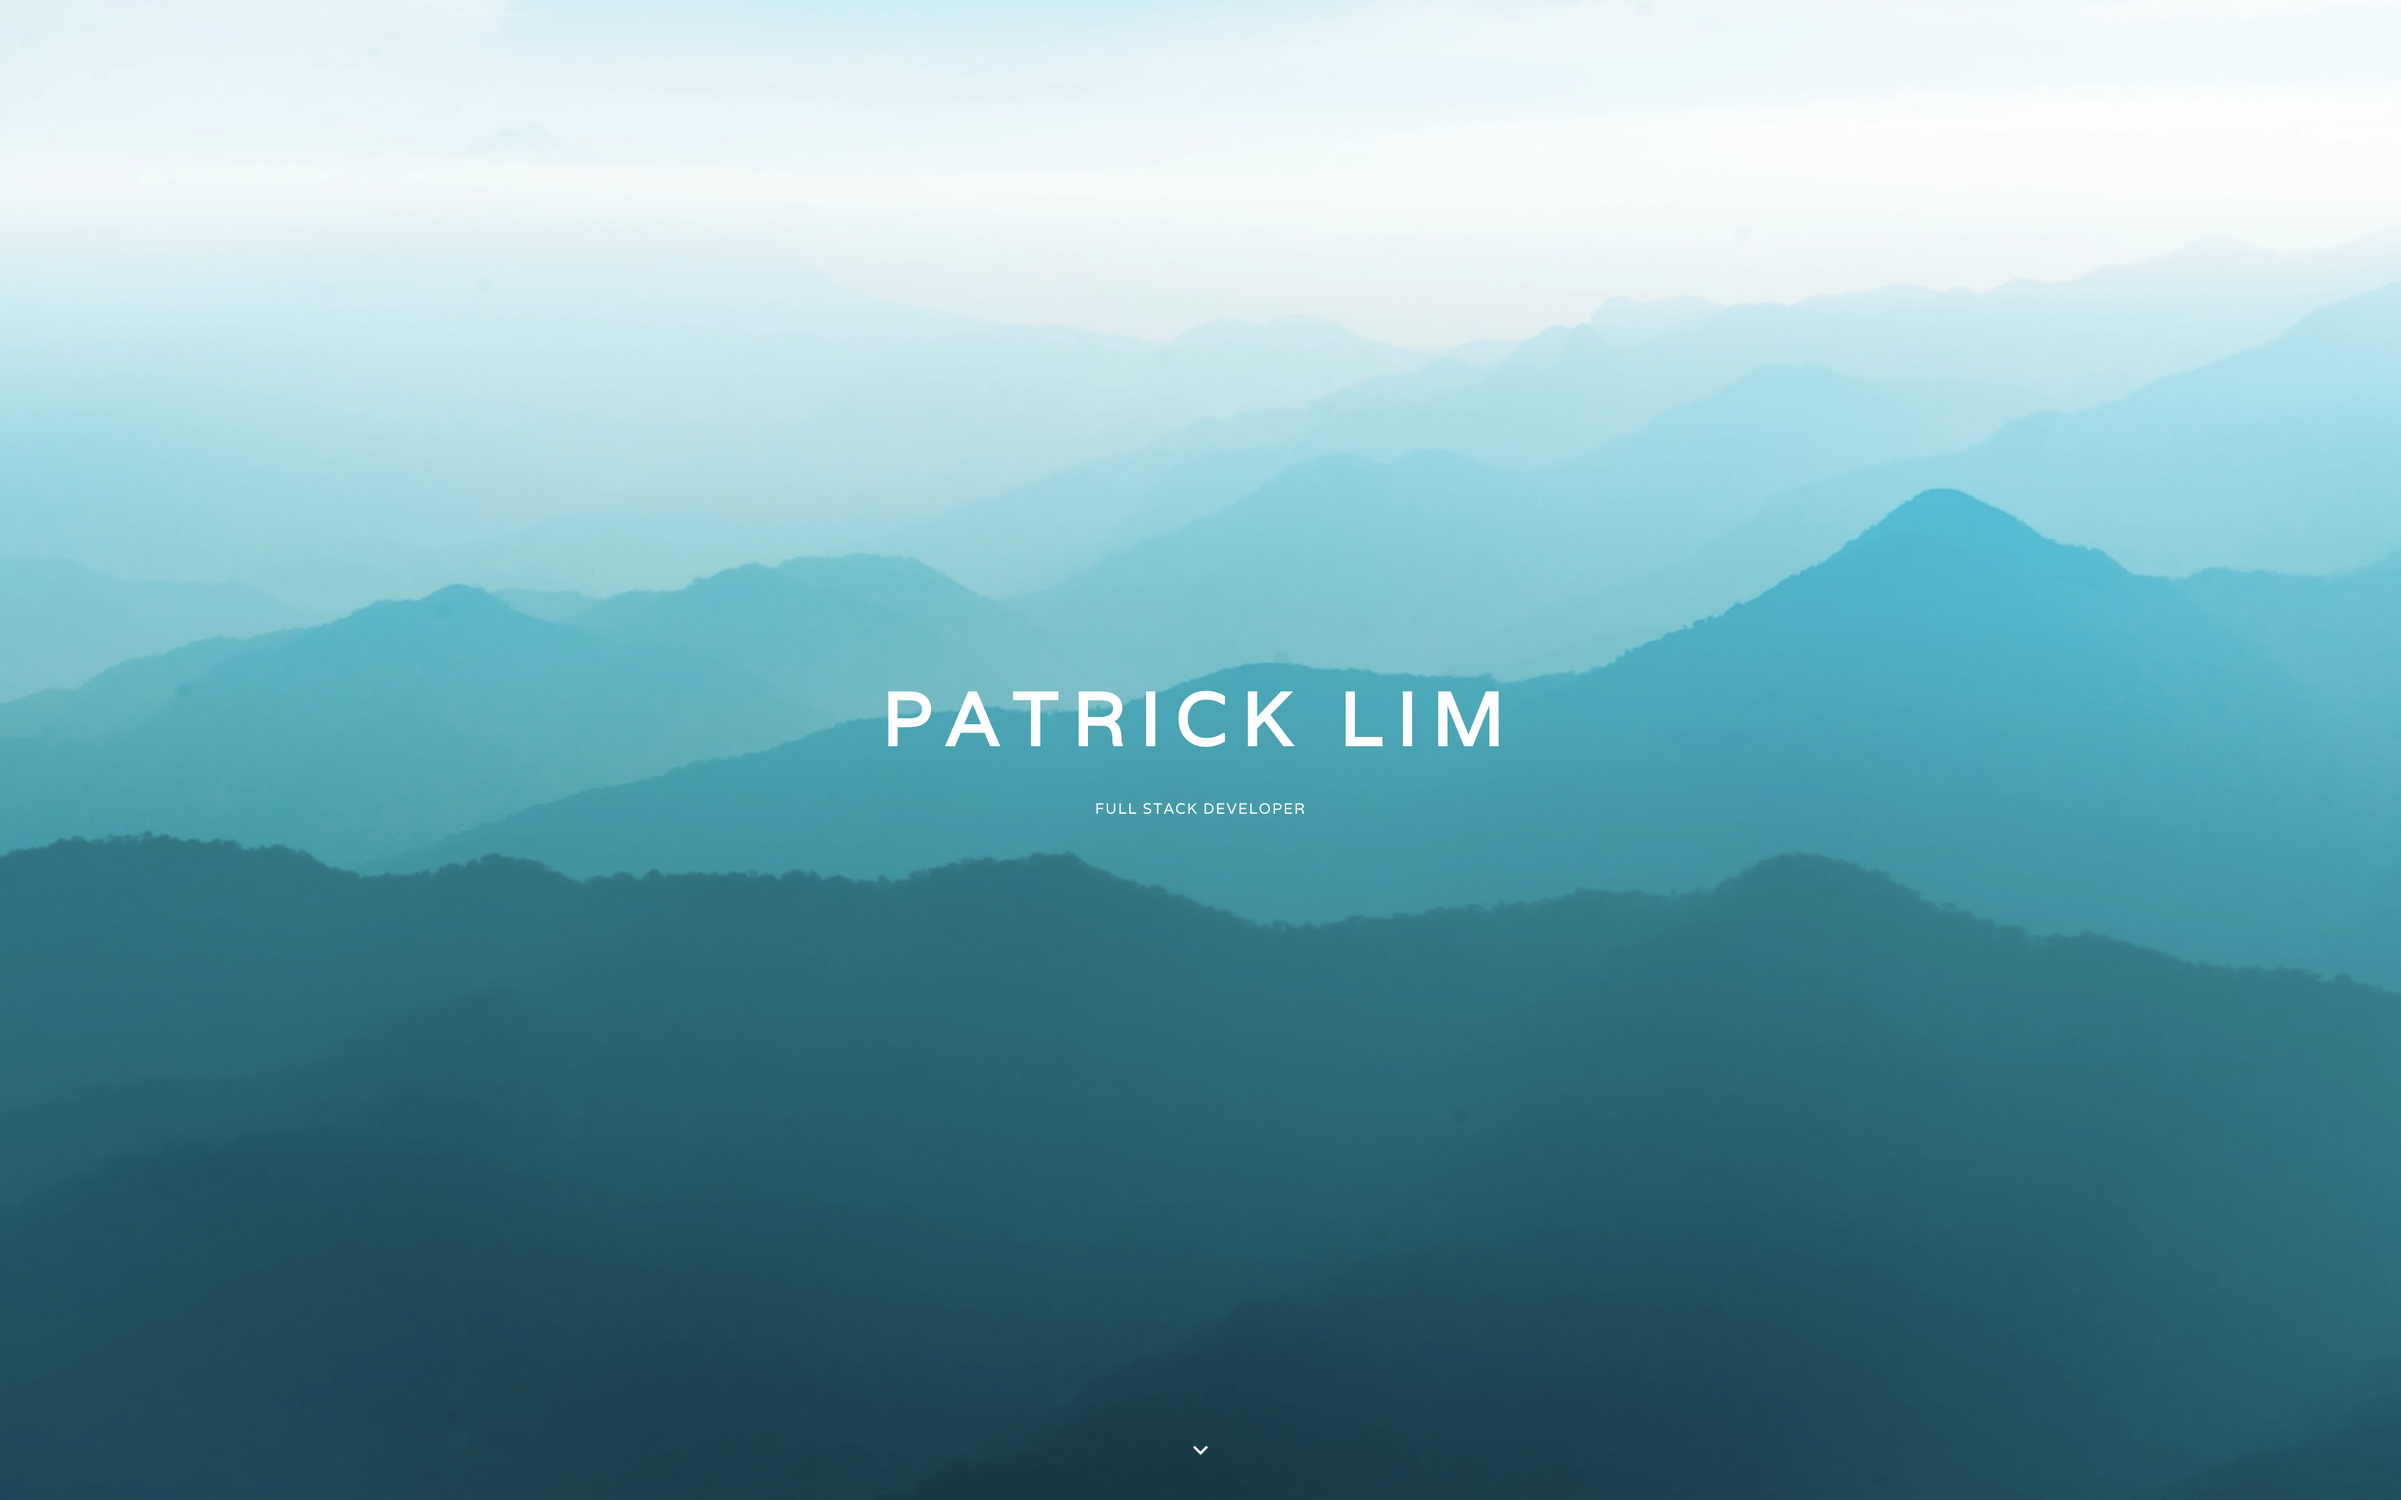
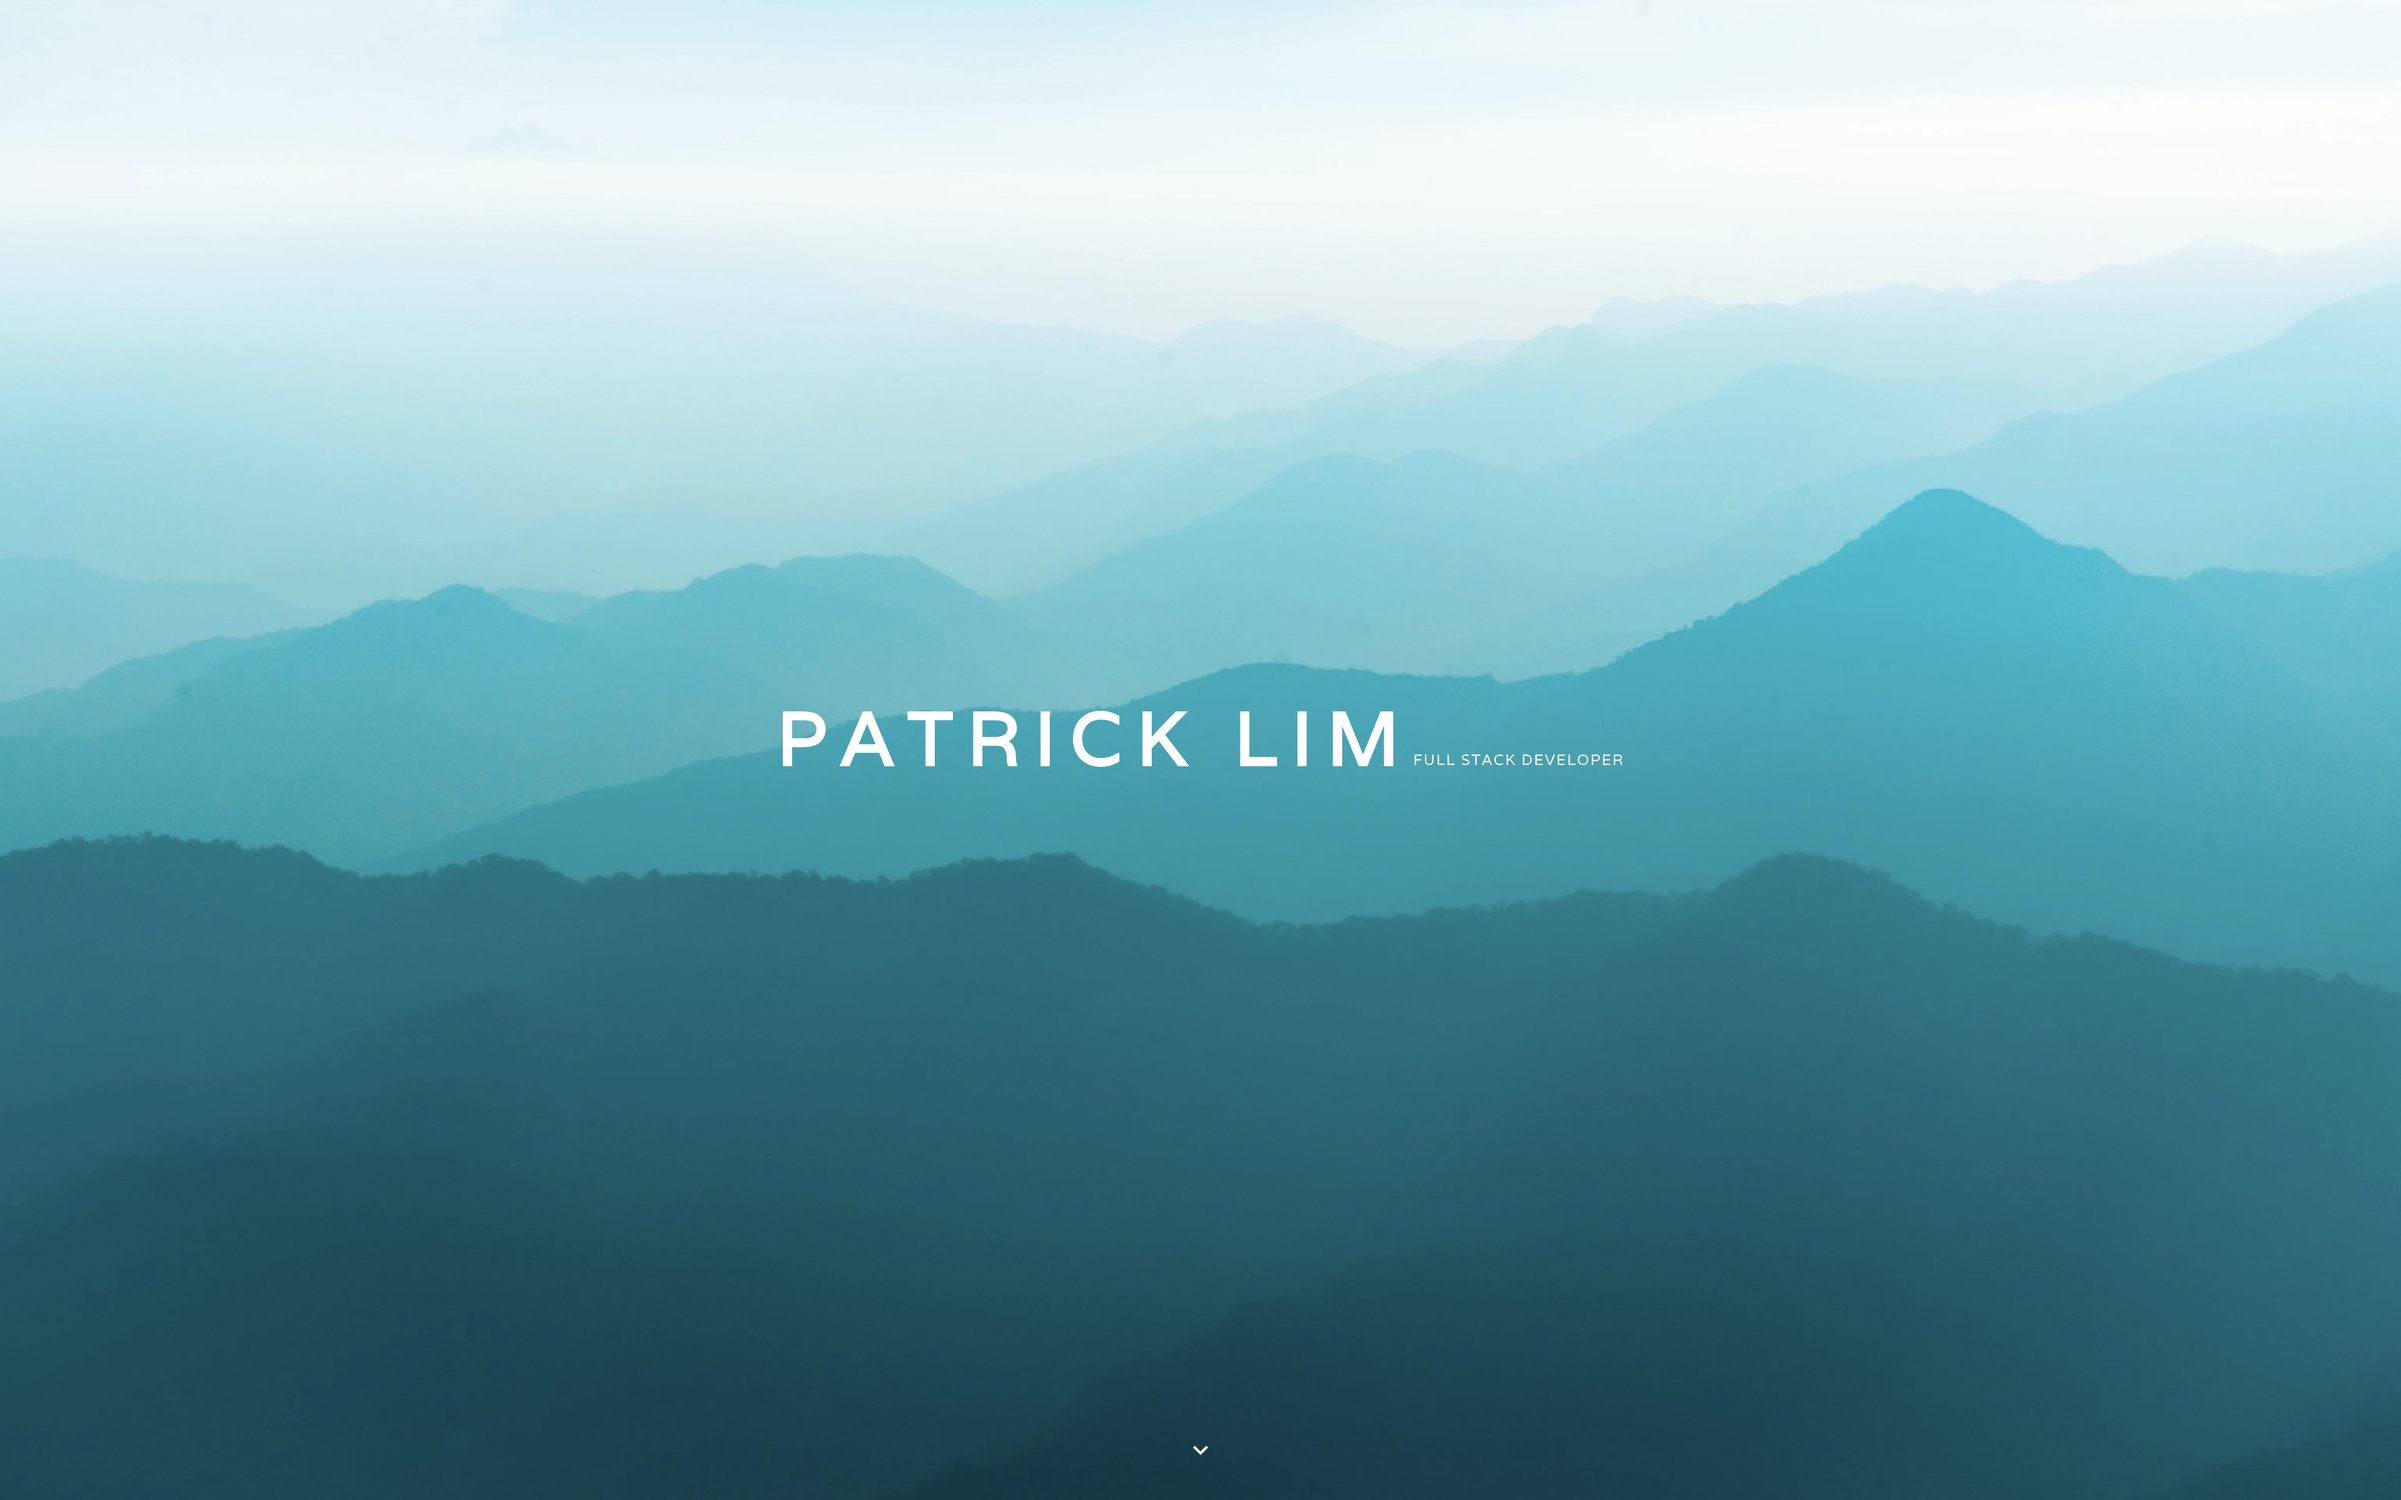
add typing animation

Changed region(s): [[0.3125, 0.4375, 0.625, 0.5312]]

diff --git a/src/components/home/index.tsx b/src/components/home/index.tsx
@@ -1,21 +1,20 @@
 import { BackgroundQuery } from '@generated/graphql-types';
 import Box from '@material-ui/core/Box';
 import Grid from '@material-ui/core/Grid';
-import Grow from '@material-ui/core/Grow';
 import IconButton from '@material-ui/core/IconButton';
-import Slide from '@material-ui/core/Slide';
 import { duration } from '@material-ui/core/styles';
 import Tooltip from '@material-ui/core/Tooltip';
 import Typography from '@material-ui/core/Typography';
+import Zoom from '@material-ui/core/Zoom';
 import ExpandMoreIcon from '@material-ui/icons/ExpandMore';
 import { graphql, useStaticQuery } from 'gatsby';
 import BackgroundImage from 'gatsby-background-image';
 import { useIntl } from 'gatsby-plugin-intl';
-import React, { useReducer } from 'react';
+import React, { useState } from 'react';
+import Typist from 'react-typist';
 import { ID_ABOUT_ME } from '~/constants';
 import useScrollTo from '~/hooks/use-scroll-to';
-import { textEntered } from './actions';
-import reducer, { initialState } from './reducer';
+import useSiteMetadata from '~/hooks/use-site-metadata';
 import useStyles from './styles';
 
 export const query = graphql`
@@ -31,7 +30,8 @@ export const query = graphql`
 `;
 
 const Home = () => {
-  const [{ text1, text2, text3 }, dispatch] = useReducer(reducer, initialState);
+  const [typingDone, setTypingDone] = useState(false);
+  const { author } = useSiteMetadata();
   const classes = useStyles();
   const { scrollTo } = useScrollTo(ID_ABOUT_ME);
   const { formatMessage } = useIntl();
@@ -45,44 +45,31 @@ const Home = () => {
   return (
     <Box className={classes.root}>
       <BackgroundImage fluid={fluid}>
-        <Grid container direction="column" justify="center" alignItems="center">
-          <Grid item>
-            <Typography className={classes.title} variant="h2" component="h1" gutterBottom>
-              <Slide
-                direction="down"
-                in
-                timeout={{ enter: duration.complex }}
-                onEntered={() => dispatch(textEntered('text1'))}
-              >
-                <span>patrick</span>
-              </Slide>{' '}
-              <Slide
-                direction="up"
-                in
-                timeout={{ enter: duration.complex }}
-                onEntered={() => dispatch(textEntered('text2'))}
-              >
-                <span>lim</span>
-              </Slide>
-            </Typography>
-          </Grid>
-          <Grid item>
-            <Grow
-              in={text1 && text2}
-              timeout={{ enter: duration.complex }}
-              onEntered={() => dispatch(textEntered('text3'))}
-            >
+        <Grid container justify="center" alignItems="center">
+          <Typist
+            className={classes.typist}
+            cursor={{ show: false }}
+            avgTypingDelay={100}
+            onTypingDone={() => setTypingDone(true)}
+          >
+            <Grid item>
+              <Typography className={classes.title} component="h1" gutterBottom variant="h2">
+                {author}
+              </Typography>
+            </Grid>
+            <Typist.Delay ms={duration.complex} />
+            <Grid item>
               <Typography
                 className={classes.subtitle}
                 color="textSecondary"
-                variant="overline"
                 component="p"
+                variant="overline"
               >
                 {formatMessage({ id: 'home.subtitle' })}
               </Typography>
-            </Grow>
-          </Grid>
-          <Slide direction="down" in={text3} timeout={{ enter: duration.complex }}>
+            </Grid>
+          </Typist>
+          <Zoom in={typingDone} timeout={{ enter: duration.complex }}>
             <Box className={classes.next}>
               <Tooltip title={titleContinue} aria-label={titleContinue}>
                 <IconButton onClick={scrollTo}>
@@ -90,7 +77,7 @@ const Home = () => {
                 </IconButton>
               </Tooltip>
             </Box>
-          </Slide>
+          </Zoom>
         </Grid>
       </BackgroundImage>
     </Box>

diff --git a/src/components/home/styles.ts b/src/components/home/styles.ts
@@ -1,31 +1,39 @@
 import { createStyles, makeStyles, Theme } from '@material-ui/core/styles';
 
+const fontFamily = '"Varela", "Raleway", "Roboto", "Helvetica", "Arial", sans-serif';
+
 export default makeStyles((theme: Theme) =>
   createStyles({
     root: {
       '& > div': {
         '& > .MuiGrid-container': {
           minHeight: '100vh',
-          '& $title, & $subtitle': {
-            fontFamily: '"Varela", "Raleway", "Roboto", "Helvetica", "Arial", sans-serif',
-          },
+        },
+      },
+    },
+    typist: {
+      padding: theme.spacing(2),
+      textAlign: 'center',
+      '& > .Cursor': {
+        color: '#fff',
+      },
+      [theme.breakpoints.up('sm')]: {
+        '& > .MuiGrid-item': {
+          display: 'inline-block',
         },
       },
     },
     title: {
       color: '#fff',
+      fontFamily,
       fontWeight: 'bold',
       letterSpacing: '0.7rem',
-      textAlign: 'center',
       textTransform: 'uppercase',
-      '& > span': {
-        display: 'inline-block',
-      },
     },
     subtitle: {
       color: '#fff',
+      fontFamily,
       letterSpacing: '0.06rem',
-      textAlign: 'center',
     },
     next: {
       position: 'absolute',
